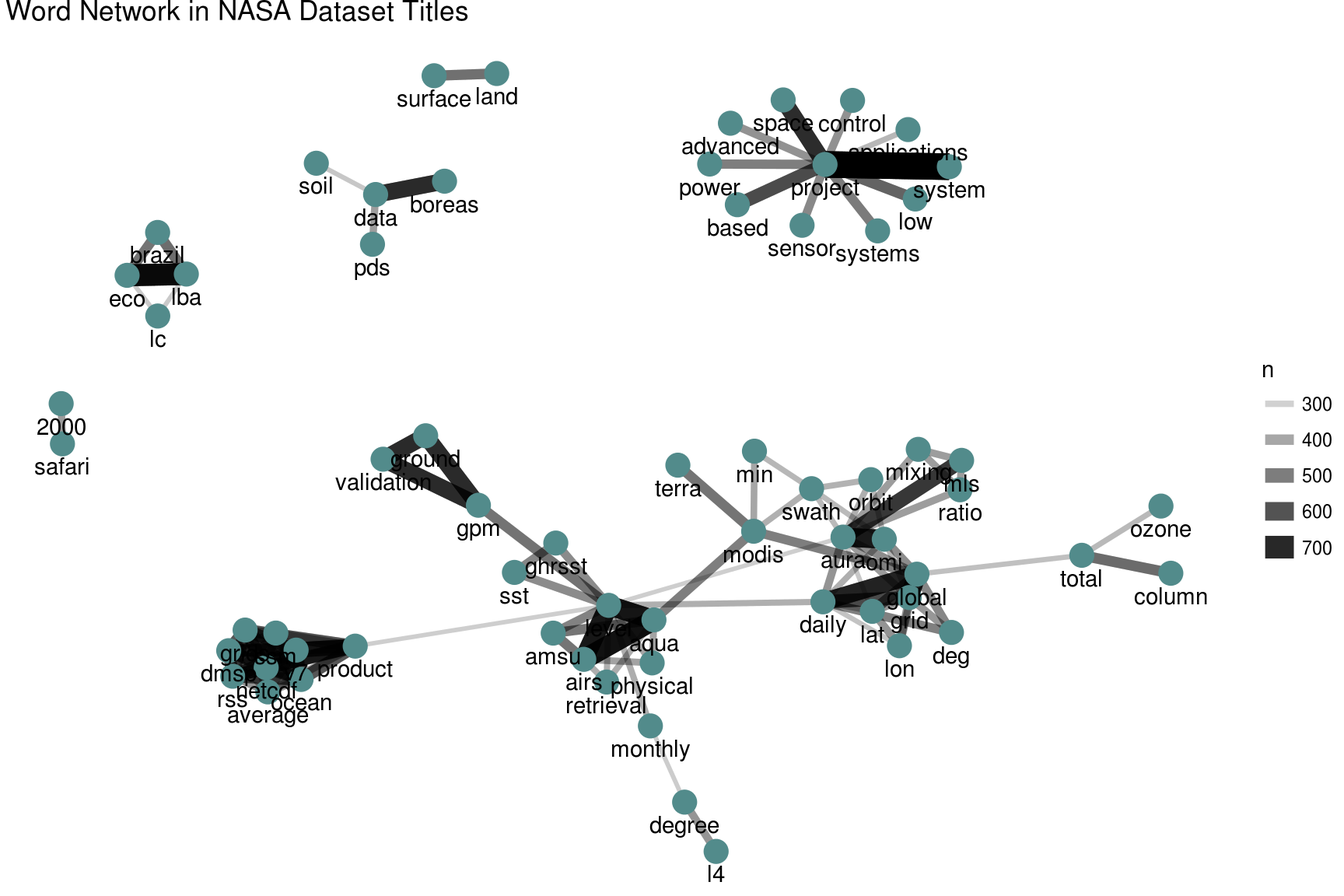
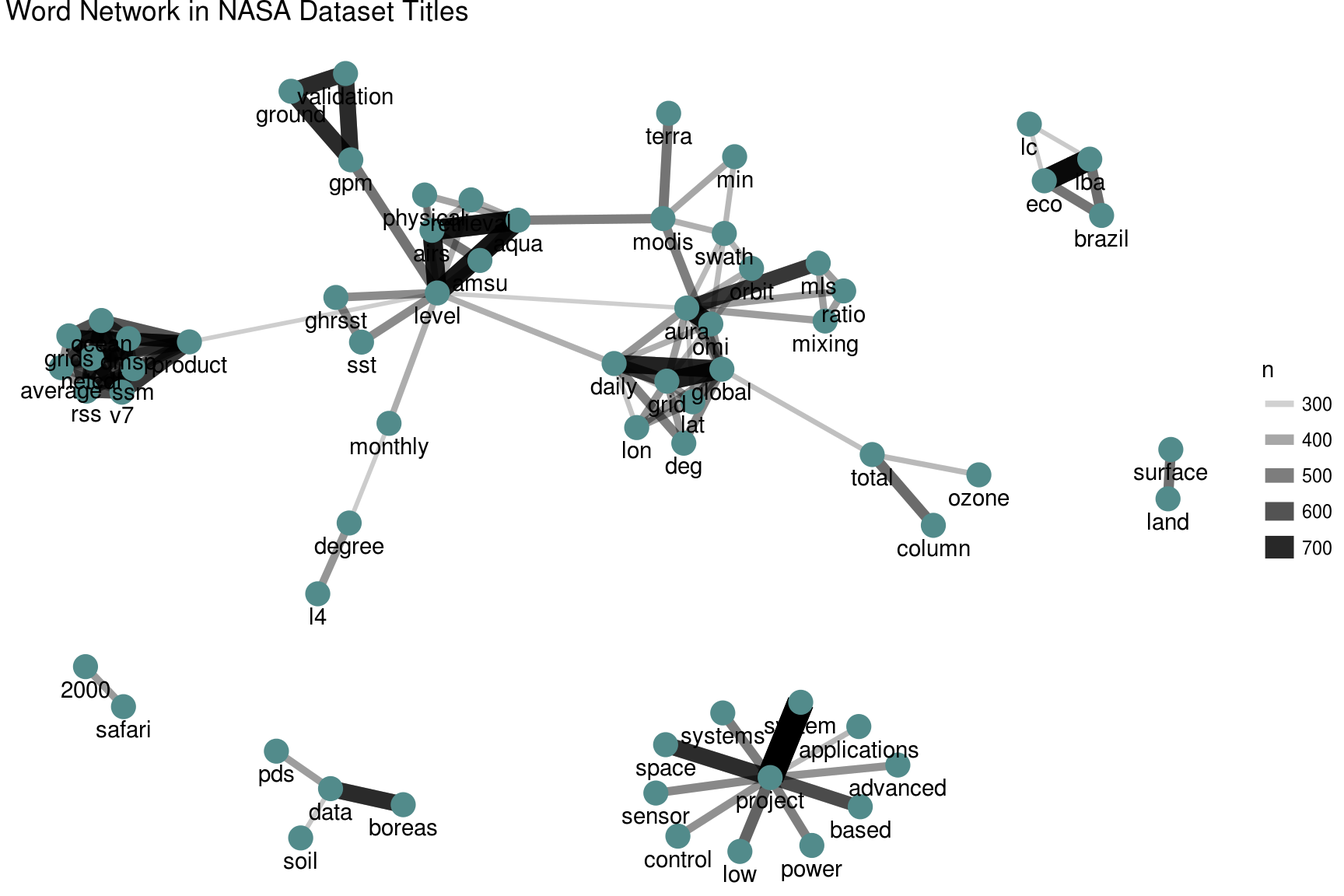
Updating book (163)

diff --git a/nasa.html b/nasa.html
@@ -26,7 +26,7 @@
 <meta name="author" content="Julia Silge and David Robinson">
 
 
-<meta name="date" content="2016-12-03">
+<meta name="date" content="2016-12-07">
 
   <meta name="viewport" content="width=device-width, initial-scale=1">
   <meta name="apple-mobile-web-app-capable" content="yes">
@@ -178,7 +178,8 @@ code > span.in { color: #60a0b0; font-weight: bold; font-style: italic; } /* Inf
 <li class="chapter" data-level="9.1" data-path="nasa.html"><a href="nasa.html#getting-the-metadata"><i class="fa fa-check"></i><b>9.1</b> Getting the metadata</a></li>
 <li class="chapter" data-level="9.2" data-path="nasa.html"><a href="nasa.html#wrangling-and-tidying-the-data"><i class="fa fa-check"></i><b>9.2</b> Wrangling and tidying the data</a></li>
 <li class="chapter" data-level="9.3" data-path="nasa.html"><a href="nasa.html#some-initial-simple-exploration"><i class="fa fa-check"></i><b>9.3</b> Some initial simple exploration</a></li>
-<li class="chapter" data-level="9.4" data-path="nasa.html"><a href="nasa.html#word-co-ocurrences"><i class="fa fa-check"></i><b>9.4</b> Word co-ocurrences</a></li>
+<li class="chapter" data-level="9.4" data-path="nasa.html"><a href="nasa.html#word-co-ocurrences-and-correlations"><i class="fa fa-check"></i><b>9.4</b> Word co-ocurrences and correlations</a></li>
+<li class="chapter" data-level="9.5" data-path="nasa.html"><a href="nasa.html#calculating-tf-idf-for-the-description-fields"><i class="fa fa-check"></i><b>9.5</b> Calculating tf-idf for the description fields</a></li>
 </ul></li>
 <li class="chapter" data-level="10" data-path="usenet.html"><a href="usenet.html"><i class="fa fa-check"></i><b>10</b> Case study: analyzing usenet text</a><ul>
 <li class="chapter" data-level="10.1" data-path="usenet.html"><a href="usenet.html#wrangling-the-data"><i class="fa fa-check"></i><b>10.1</b> Wrangling the data</a></li>
@@ -393,8 +394,8 @@ nasa_desc &lt;-<span class="st"> </span>nasa_desc %&gt;%<span class="st"> </span
 <div class="sourceCode"><pre class="sourceCode r"><code class="sourceCode r">nasa_keyword &lt;-<span class="st"> </span>nasa_keyword %&gt;%<span class="st"> </span>
 <span class="st">  </span><span class="kw">mutate</span>(<span class="dt">keyword =</span> <span class="kw">toupper</span>(keyword))</code></pre></div>
 </div>
-<div id="word-co-ocurrences" class="section level2">
-<h2><span class="header-section-number">9.4</span> Word co-ocurrences</h2>
+<div id="word-co-ocurrences-and-correlations" class="section level2">
+<h2><span class="header-section-number">9.4</span> Word co-ocurrences and correlations</h2>
 <p>Let’s examine which words commonly occur together in the titles and descriptions of NASA datasets. We can then examine a word network in titles/descriptions; this may help us decide, for example, how many topics to look at in topic modeling.</p>
 <div class="sourceCode"><pre class="sourceCode r"><code class="sourceCode r"><span class="kw">library</span>(widyr)
 
@@ -439,7 +440,7 @@ desc_words</code></pre></div>
 <span class="kw">library</span>(igraph)
 <span class="kw">library</span>(ggraph)
 
-<span class="kw">set.seed</span>(<span class="dv">1234</span>)
+<span class="kw">set.seed</span>(<span class="dv">2016</span>)
 title_words %&gt;%
 <span class="st">  </span><span class="kw">filter</span>(n &gt;=<span class="st"> </span><span class="dv">250</span>) %&gt;%
 <span class="st">  </span><span class="kw">graph_from_data_frame</span>() %&gt;%
@@ -463,7 +464,7 @@ desc_words %&gt;%
 <span class="st">  </span><span class="kw">ggtitle</span>(<span class="st">&quot;Word Network in NASA Dataset Descriptions&quot;</span>) +
 <span class="st">  </span><span class="kw">theme_void</span>()</code></pre></div>
 <p><img src="09-nasa-metadata_files/figure-html/plot_desc-1.png" width="864" /></p>
-<p>Here there are such <em>strong</em> connections between the top dozen or so words (words like “data”, “resolution”, and “instrument”) that we may do better if we exclude these very highly connected words. Also, this may mean that tf-idf (as described in detail in <a href="tfidf.html#tfidf">Chapter 4</a>) will be a good option to explore. But for now, let’s add a few more stop words and look at one more word network for the description fields. Notice how we use <code>bind_rows</code> to add more custom stop words to the words we are already using; this approach can be used in many instances.</p>
+<p>Here there are such <em>strong</em> connections between the top dozen or so words (words like “data”, “resolution”, and “instrument”) that we may do better if we exclude these very highly connected words or use tf-idf (as described in detail in <a href="tfidf.html#tfidf">Chapter 4</a>) as a metric. But for now, let’s add a few more stop words and look at one more word network for the description fields. Notice how we use <code>bind_rows</code> to add more custom stop words to the words we are already using; this approach can be used in many instances.</p>
 <div class="sourceCode"><pre class="sourceCode r"><code class="sourceCode r">mystopwords &lt;-<span class="st"> </span><span class="kw">bind_rows</span>(mystopwords,
                          <span class="kw">data_frame</span>(<span class="dt">word =</span> <span class="kw">c</span>(<span class="st">&quot;data&quot;</span>, <span class="st">&quot;global&quot;</span>, 
                                              <span class="st">&quot;instrument&quot;</span>, <span class="st">&quot;resolution&quot;</span>,
@@ -489,7 +490,22 @@ desc_words %&gt;%
 <div class="sourceCode"><pre class="sourceCode r"><code class="sourceCode r">keyword_counts &lt;-<span class="st"> </span>nasa_keyword %&gt;%<span class="st"> </span>
 <span class="st">  </span><span class="kw">pairwise_count</span>(keyword, id, <span class="dt">sort =</span> <span class="ot">TRUE</span>)
 
-<span class="kw">set.seed</span>(<span class="dv">1234</span>)
+keyword_counts</code></pre></div>
+<pre><code>## # A tibble: 26,780 × 3
+##            item1         item2     n
+##            &lt;chr&gt;         &lt;chr&gt; &lt;dbl&gt;
+## 1   OCEAN OPTICS        OCEANS  7324
+## 2         OCEANS  OCEAN OPTICS  7324
+## 3     ATMOSPHERE EARTH SCIENCE  7318
+## 4  EARTH SCIENCE    ATMOSPHERE  7318
+## 5    OCEAN COLOR        OCEANS  7270
+## 6    OCEAN COLOR  OCEAN OPTICS  7270
+## 7         OCEANS   OCEAN COLOR  7270
+## 8   OCEAN OPTICS   OCEAN COLOR  7270
+## 9      COMPLETED       PROJECT  6450
+## 10       PROJECT     COMPLETED  6450
+## # ... with 26,770 more rows</code></pre>
+<div class="sourceCode"><pre class="sourceCode r"><code class="sourceCode r"><span class="kw">set.seed</span>(<span class="dv">2016</span>)
 keyword_counts %&gt;%
 <span class="st">  </span><span class="kw">filter</span>(n &gt;=<span class="st"> </span><span class="dv">700</span>) %&gt;%
 <span class="st">  </span><span class="kw">graph_from_data_frame</span>() %&gt;%
@@ -501,7 +517,66 @@ keyword_counts %&gt;%
 <span class="st">  </span><span class="kw">theme_void</span>()</code></pre></div>
 <p><img src="09-nasa-metadata_files/figure-html/plot_counts-1.png" width="864" /></p>
 <p>These are the most commonly co-occurring words, but also just the most common keywords in general. To more meaningfully examine which keywords are likely to appear together instead of separately, we need to find the correlation among the keywords as described in <a href="ngrams.html#ngrams">Chapter 5</a>.</p>
-<p>TODO: correlation of keywords, tf-idf, topic modeling</p>
+<div class="sourceCode"><pre class="sourceCode r"><code class="sourceCode r">keyword_cors &lt;-<span class="st"> </span>nasa_keyword %&gt;%<span class="st"> </span>
+<span class="st">  </span><span class="kw">group_by</span>(keyword) %&gt;%
+<span class="st">  </span><span class="kw">filter</span>(<span class="kw">n</span>() &gt;=<span class="st"> </span><span class="dv">20</span>) %&gt;%
+<span class="st">  </span><span class="kw">pairwise_cor</span>(keyword, id, <span class="dt">sort =</span> <span class="ot">TRUE</span>)
+
+keyword_cors</code></pre></div>
+<pre><code>## # A tibble: 51,756 × 3
+##        item1     item2 correlation
+##        &lt;chr&gt;     &lt;chr&gt;       &lt;dbl&gt;
+## 1        LAT       GBM           1
+## 2        GBM       LAT           1
+## 3     NAVCAM    HAZCAM           1
+## 4     HAZCAM    NAVCAM           1
+## 5      MARCI       CTX           1
+## 6        CTX     MARCI           1
+## 7       MTES        MB           1
+## 8         MB      MTES           1
+## 9    SHARING KNOWLEDGE           1
+## 10 KNOWLEDGE   SHARING           1
+## # ... with 51,746 more rows</code></pre>
+<p>Notice that these keywords at the top of this sorted data frame have correlation coefficients equal to 1; they always occur together. This means these are redundant keywords and it may not make sense to continue to use both of these sets of pairs. Let’s visualize the network of keyword correlations, just as we did for keyword co-occurences.</p>
+<div class="sourceCode"><pre class="sourceCode r"><code class="sourceCode r"><span class="kw">set.seed</span>(<span class="dv">2016</span>)
+keyword_cors %&gt;%
+<span class="st">  </span><span class="kw">filter</span>(correlation &gt;<span class="st"> </span>.<span class="dv">6</span>) %&gt;%
+<span class="st">  </span><span class="kw">graph_from_data_frame</span>() %&gt;%
+<span class="st">  </span><span class="kw">ggraph</span>(<span class="dt">layout =</span> <span class="st">&quot;fr&quot;</span>) +
+<span class="st">  </span><span class="kw">geom_edge_link</span>(<span class="kw">aes</span>(<span class="dt">edge_alpha =</span> correlation, <span class="dt">edge_width =</span> correlation)) +
+<span class="st">  </span><span class="kw">geom_node_point</span>(<span class="dt">color =</span> <span class="st">&quot;royalblue3&quot;</span>, <span class="dt">size =</span> <span class="dv">5</span>) +
+<span class="st">  </span><span class="kw">geom_node_text</span>(<span class="kw">aes</span>(<span class="dt">label =</span> name), <span class="dt">vjust =</span> <span class="fl">1.8</span>) +
+<span class="st">  </span><span class="kw">ggtitle</span>(<span class="st">&quot;Correlation Network in NASA Dataset Keywords&quot;</span>) +
+<span class="st">  </span><span class="kw">theme_void</span>()</code></pre></div>
+<p><img src="09-nasa-metadata_files/figure-html/plot_cors-1.png" width="864" /></p>
+<p>This network looks much different than the co-occurence network. The difference is that the co-occurrence network asks a question about which keyword pairs occur most often, and the correlation network asks a question about which keyword pairs occur more often together than with other keywords. Notice here the high number of small clusters of keywords; the network structure can be extracted from the <code>graph_from_data_frame()</code> function above.</p>
+</div>
+<div id="calculating-tf-idf-for-the-description-fields" class="section level2">
+<h2><span class="header-section-number">9.5</span> Calculating tf-idf for the description fields</h2>
+<p>As discussed in <a href="#tf-idf">Chapter 4</a>, we can use tf-idf, the term frequency times inverse document frequency, to identify words that are especially important to a document within a collection of documents. Let’s apply that approach to the description fields of these NASA datasets. We will consider each description field a document, and the whole set of description fields the collection or corpus of documents. We have already used <code>unnest_tokens</code> above to make a tidy data frame of the words in the description fields, so now we can use <code>bind_tf_idf</code> to calculate tf-idf for each word.</p>
+<div class="sourceCode"><pre class="sourceCode r"><code class="sourceCode r">desc_tf_idf &lt;-<span class="st"> </span>nasa_desc %&gt;%<span class="st"> </span>
+<span class="st">  </span><span class="kw">count</span>(id, word, <span class="dt">sort =</span> <span class="ot">TRUE</span>) %&gt;%
+<span class="st">  </span><span class="kw">ungroup</span>() %&gt;%
+<span class="st">  </span><span class="kw">bind_tf_idf</span>(word, id, n)</code></pre></div>
+<p>What are the highest tf-idf words in the NASA description fields?</p>
+<div class="sourceCode"><pre class="sourceCode r"><code class="sourceCode r">desc_tf_idf %&gt;%<span class="st"> </span>
+<span class="st">  </span><span class="kw">arrange</span>(-tf_idf)</code></pre></div>
+<pre><code>## # A tibble: 1,847,770 × 6
+##                          id                                          word     n    tf       idf
+##                       &lt;chr&gt;                                         &lt;chr&gt; &lt;int&gt; &lt;dbl&gt;     &lt;dbl&gt;
+## 1  55942a7cc63a7fe59b49774a                                           rdr     1     1 10.375052
+## 2  55942ac9c63a7fe59b49b688 palsar_radiometric_terrain_corrected_high_res     1     1 10.375052
+## 3  55942ac9c63a7fe59b49b689  palsar_radiometric_terrain_corrected_low_res     1     1 10.375052
+## 4  55942a7bc63a7fe59b4976ca                                          lgrs     1     1  8.765615
+## 5  55942a7bc63a7fe59b4976d2                                          lgrs     1     1  8.765615
+## 6  55942a7bc63a7fe59b4976e3                                          lgrs     1     1  8.765615
+## 7  55942a7dc63a7fe59b497820                                           mri     1     1  8.583293
+## 8  55942ad8c63a7fe59b49cf6c                      template_proddescription     1     1  8.295611
+## 9  55942ad8c63a7fe59b49cf6d                      template_proddescription     1     1  8.295611
+## 10 55942ad8c63a7fe59b49cf6e                      template_proddescription     1     1  8.295611
+## # ... with 1,847,760 more rows, and 1 more variables: tf_idf &lt;dbl&gt;</code></pre>
+<p>These are the most important words in the description fields as measured by tf-idf, meaning they are common but not too common. Notice we have run into an issue here; both <span class="math inline">\(n\)</span> and term frequency are equal to 1 for these terms, meaning that these were description fields that only had a single word in them. If a description field only contains one word, the tf-idf algorithm will think that is a really important word. Depending on our analytic goals, it might be a good idea to throw out all description fields that have fewer than 5 words or similar.</p>
+<p>TODO: tf-idf, topic modeling</p>
 
 </div>
 </div>

diff --git a/index.html b/index.html
@@ -26,7 +26,7 @@
 <meta name="author" content="Julia Silge and David Robinson">
 
 
-<meta name="date" content="2016-12-03">
+<meta name="date" content="2016-12-07">
 
   <meta name="viewport" content="width=device-width, initial-scale=1">
   <meta name="apple-mobile-web-app-capable" content="yes">
@@ -178,7 +178,8 @@ code > span.in { color: #60a0b0; font-weight: bold; font-style: italic; } /* Inf
 <li class="chapter" data-level="9.1" data-path="nasa.html"><a href="nasa.html#getting-the-metadata"><i class="fa fa-check"></i><b>9.1</b> Getting the metadata</a></li>
 <li class="chapter" data-level="9.2" data-path="nasa.html"><a href="nasa.html#wrangling-and-tidying-the-data"><i class="fa fa-check"></i><b>9.2</b> Wrangling and tidying the data</a></li>
 <li class="chapter" data-level="9.3" data-path="nasa.html"><a href="nasa.html#some-initial-simple-exploration"><i class="fa fa-check"></i><b>9.3</b> Some initial simple exploration</a></li>
-<li class="chapter" data-level="9.4" data-path="nasa.html"><a href="nasa.html#word-co-ocurrences"><i class="fa fa-check"></i><b>9.4</b> Word co-ocurrences</a></li>
+<li class="chapter" data-level="9.4" data-path="nasa.html"><a href="nasa.html#word-co-ocurrences-and-correlations"><i class="fa fa-check"></i><b>9.4</b> Word co-ocurrences and correlations</a></li>
+<li class="chapter" data-level="9.5" data-path="nasa.html"><a href="nasa.html#calculating-tf-idf-for-the-description-fields"><i class="fa fa-check"></i><b>9.5</b> Calculating tf-idf for the description fields</a></li>
 </ul></li>
 <li class="chapter" data-level="10" data-path="usenet.html"><a href="usenet.html"><i class="fa fa-check"></i><b>10</b> Case study: analyzing usenet text</a><ul>
 <li class="chapter" data-level="10.1" data-path="usenet.html"><a href="usenet.html#wrangling-the-data"><i class="fa fa-check"></i><b>10.1</b> Wrangling the data</a></li>
@@ -212,7 +213,7 @@ code > span.in { color: #60a0b0; font-weight: bold; font-style: italic; } /* Inf
 <div id="header">
 <h1 class="title">Tidy Text Mining with R</h1>
 <h4 class="author"><em>Julia Silge and David Robinson</em></h4>
-<h4 class="date"><em>2016-12-03</em></h4>
+<h4 class="date"><em>2016-12-07</em></h4>
 </div>
 <div id="welcome-to-tidy-text-mining-with-r" class="section level1 unnumbered">
 <h1>Welcome to Tidy Text Mining with R</h1>

diff --git a/dtm.html b/dtm.html
@@ -26,7 +26,7 @@
 <meta name="author" content="Julia Silge and David Robinson">
 
 
-<meta name="date" content="2016-12-03">
+<meta name="date" content="2016-12-07">
 
   <meta name="viewport" content="width=device-width, initial-scale=1">
   <meta name="apple-mobile-web-app-capable" content="yes">
@@ -178,7 +178,8 @@ code > span.in { color: #60a0b0; font-weight: bold; font-style: italic; } /* Inf
 <li class="chapter" data-level="9.1" data-path="nasa.html"><a href="nasa.html#getting-the-metadata"><i class="fa fa-check"></i><b>9.1</b> Getting the metadata</a></li>
 <li class="chapter" data-level="9.2" data-path="nasa.html"><a href="nasa.html#wrangling-and-tidying-the-data"><i class="fa fa-check"></i><b>9.2</b> Wrangling and tidying the data</a></li>
 <li class="chapter" data-level="9.3" data-path="nasa.html"><a href="nasa.html#some-initial-simple-exploration"><i class="fa fa-check"></i><b>9.3</b> Some initial simple exploration</a></li>
-<li class="chapter" data-level="9.4" data-path="nasa.html"><a href="nasa.html#word-co-ocurrences"><i class="fa fa-check"></i><b>9.4</b> Word co-ocurrences</a></li>
+<li class="chapter" data-level="9.4" data-path="nasa.html"><a href="nasa.html#word-co-ocurrences-and-correlations"><i class="fa fa-check"></i><b>9.4</b> Word co-ocurrences and correlations</a></li>
+<li class="chapter" data-level="9.5" data-path="nasa.html"><a href="nasa.html#calculating-tf-idf-for-the-description-fields"><i class="fa fa-check"></i><b>9.5</b> Calculating tf-idf for the description fields</a></li>
 </ul></li>
 <li class="chapter" data-level="10" data-path="usenet.html"><a href="usenet.html"><i class="fa fa-check"></i><b>10</b> Case study: analyzing usenet text</a><ul>
 <li class="chapter" data-level="10.1" data-path="usenet.html"><a href="usenet.html#wrangling-the-data"><i class="fa fa-check"></i><b>10.1</b> Wrangling the data</a></li>

diff --git a/intro.html b/intro.html
@@ -26,7 +26,7 @@
 <meta name="author" content="Julia Silge and David Robinson">
 
 
-<meta name="date" content="2016-12-03">
+<meta name="date" content="2016-12-07">
 
   <meta name="viewport" content="width=device-width, initial-scale=1">
   <meta name="apple-mobile-web-app-capable" content="yes">
@@ -178,7 +178,8 @@ code > span.in { color: #60a0b0; font-weight: bold; font-style: italic; } /* Inf
 <li class="chapter" data-level="9.1" data-path="nasa.html"><a href="nasa.html#getting-the-metadata"><i class="fa fa-check"></i><b>9.1</b> Getting the metadata</a></li>
 <li class="chapter" data-level="9.2" data-path="nasa.html"><a href="nasa.html#wrangling-and-tidying-the-data"><i class="fa fa-check"></i><b>9.2</b> Wrangling and tidying the data</a></li>
 <li class="chapter" data-level="9.3" data-path="nasa.html"><a href="nasa.html#some-initial-simple-exploration"><i class="fa fa-check"></i><b>9.3</b> Some initial simple exploration</a></li>
-<li class="chapter" data-level="9.4" data-path="nasa.html"><a href="nasa.html#word-co-ocurrences"><i class="fa fa-check"></i><b>9.4</b> Word co-ocurrences</a></li>
+<li class="chapter" data-level="9.4" data-path="nasa.html"><a href="nasa.html#word-co-ocurrences-and-correlations"><i class="fa fa-check"></i><b>9.4</b> Word co-ocurrences and correlations</a></li>
+<li class="chapter" data-level="9.5" data-path="nasa.html"><a href="nasa.html#calculating-tf-idf-for-the-description-fields"><i class="fa fa-check"></i><b>9.5</b> Calculating tf-idf for the description fields</a></li>
 </ul></li>
 <li class="chapter" data-level="10" data-path="usenet.html"><a href="usenet.html"><i class="fa fa-check"></i><b>10</b> Case study: analyzing usenet text</a><ul>
 <li class="chapter" data-level="10.1" data-path="usenet.html"><a href="usenet.html#wrangling-the-data"><i class="fa fa-check"></i><b>10.1</b> Wrangling the data</a></li>

diff --git a/ngrams.html b/ngrams.html
@@ -26,7 +26,7 @@
 <meta name="author" content="Julia Silge and David Robinson">
 
 
-<meta name="date" content="2016-12-03">
+<meta name="date" content="2016-12-07">
 
   <meta name="viewport" content="width=device-width, initial-scale=1">
   <meta name="apple-mobile-web-app-capable" content="yes">
@@ -178,7 +178,8 @@ code > span.in { color: #60a0b0; font-weight: bold; font-style: italic; } /* Inf
 <li class="chapter" data-level="9.1" data-path="nasa.html"><a href="nasa.html#getting-the-metadata"><i class="fa fa-check"></i><b>9.1</b> Getting the metadata</a></li>
 <li class="chapter" data-level="9.2" data-path="nasa.html"><a href="nasa.html#wrangling-and-tidying-the-data"><i class="fa fa-check"></i><b>9.2</b> Wrangling and tidying the data</a></li>
 <li class="chapter" data-level="9.3" data-path="nasa.html"><a href="nasa.html#some-initial-simple-exploration"><i class="fa fa-check"></i><b>9.3</b> Some initial simple exploration</a></li>
-<li class="chapter" data-level="9.4" data-path="nasa.html"><a href="nasa.html#word-co-ocurrences"><i class="fa fa-check"></i><b>9.4</b> Word co-ocurrences</a></li>
+<li class="chapter" data-level="9.4" data-path="nasa.html"><a href="nasa.html#word-co-ocurrences-and-correlations"><i class="fa fa-check"></i><b>9.4</b> Word co-ocurrences and correlations</a></li>
+<li class="chapter" data-level="9.5" data-path="nasa.html"><a href="nasa.html#calculating-tf-idf-for-the-description-fields"><i class="fa fa-check"></i><b>9.5</b> Calculating tf-idf for the description fields</a></li>
 </ul></li>
 <li class="chapter" data-level="10" data-path="usenet.html"><a href="usenet.html"><i class="fa fa-check"></i><b>10</b> Case study: analyzing usenet text</a><ul>
 <li class="chapter" data-level="10.1" data-path="usenet.html"><a href="usenet.html#wrangling-the-data"><i class="fa fa-check"></i><b>10.1</b> Wrangling the data</a></li>

diff --git a/references.html b/references.html
@@ -26,7 +26,7 @@
 <meta name="author" content="Julia Silge and David Robinson">
 
 
-<meta name="date" content="2016-12-03">
+<meta name="date" content="2016-12-07">
 
   <meta name="viewport" content="width=device-width, initial-scale=1">
   <meta name="apple-mobile-web-app-capable" content="yes">
@@ -178,7 +178,8 @@ code > span.in { color: #60a0b0; font-weight: bold; font-style: italic; } /* Inf
 <li class="chapter" data-level="9.1" data-path="nasa.html"><a href="nasa.html#getting-the-metadata"><i class="fa fa-check"></i><b>9.1</b> Getting the metadata</a></li>
 <li class="chapter" data-level="9.2" data-path="nasa.html"><a href="nasa.html#wrangling-and-tidying-the-data"><i class="fa fa-check"></i><b>9.2</b> Wrangling and tidying the data</a></li>
 <li class="chapter" data-level="9.3" data-path="nasa.html"><a href="nasa.html#some-initial-simple-exploration"><i class="fa fa-check"></i><b>9.3</b> Some initial simple exploration</a></li>
-<li class="chapter" data-level="9.4" data-path="nasa.html"><a href="nasa.html#word-co-ocurrences"><i class="fa fa-check"></i><b>9.4</b> Word co-ocurrences</a></li>
+<li class="chapter" data-level="9.4" data-path="nasa.html"><a href="nasa.html#word-co-ocurrences-and-correlations"><i class="fa fa-check"></i><b>9.4</b> Word co-ocurrences and correlations</a></li>
+<li class="chapter" data-level="9.5" data-path="nasa.html"><a href="nasa.html#calculating-tf-idf-for-the-description-fields"><i class="fa fa-check"></i><b>9.5</b> Calculating tf-idf for the description fields</a></li>
 </ul></li>
 <li class="chapter" data-level="10" data-path="usenet.html"><a href="usenet.html"><i class="fa fa-check"></i><b>10</b> Case study: analyzing usenet text</a><ul>
 <li class="chapter" data-level="10.1" data-path="usenet.html"><a href="usenet.html#wrangling-the-data"><i class="fa fa-check"></i><b>10.1</b> Wrangling the data</a></li>

diff --git a/sentiment.html b/sentiment.html
@@ -26,7 +26,7 @@
 <meta name="author" content="Julia Silge and David Robinson">
 
 
-<meta name="date" content="2016-12-03">
+<meta name="date" content="2016-12-07">
 
   <meta name="viewport" content="width=device-width, initial-scale=1">
   <meta name="apple-mobile-web-app-capable" content="yes">
@@ -178,7 +178,8 @@ code > span.in { color: #60a0b0; font-weight: bold; font-style: italic; } /* Inf
 <li class="chapter" data-level="9.1" data-path="nasa.html"><a href="nasa.html#getting-the-metadata"><i class="fa fa-check"></i><b>9.1</b> Getting the metadata</a></li>
 <li class="chapter" data-level="9.2" data-path="nasa.html"><a href="nasa.html#wrangling-and-tidying-the-data"><i class="fa fa-check"></i><b>9.2</b> Wrangling and tidying the data</a></li>
 <li class="chapter" data-level="9.3" data-path="nasa.html"><a href="nasa.html#some-initial-simple-exploration"><i class="fa fa-check"></i><b>9.3</b> Some initial simple exploration</a></li>
-<li class="chapter" data-level="9.4" data-path="nasa.html"><a href="nasa.html#word-co-ocurrences"><i class="fa fa-check"></i><b>9.4</b> Word co-ocurrences</a></li>
+<li class="chapter" data-level="9.4" data-path="nasa.html"><a href="nasa.html#word-co-ocurrences-and-correlations"><i class="fa fa-check"></i><b>9.4</b> Word co-ocurrences and correlations</a></li>
+<li class="chapter" data-level="9.5" data-path="nasa.html"><a href="nasa.html#calculating-tf-idf-for-the-description-fields"><i class="fa fa-check"></i><b>9.5</b> Calculating tf-idf for the description fields</a></li>
 </ul></li>
 <li class="chapter" data-level="10" data-path="usenet.html"><a href="usenet.html"><i class="fa fa-check"></i><b>10</b> Case study: analyzing usenet text</a><ul>
 <li class="chapter" data-level="10.1" data-path="usenet.html"><a href="usenet.html#wrangling-the-data"><i class="fa fa-check"></i><b>10.1</b> Wrangling the data</a></li>

diff --git a/tfidf.html b/tfidf.html
@@ -26,7 +26,7 @@
 <meta name="author" content="Julia Silge and David Robinson">
 
 
-<meta name="date" content="2016-12-03">
+<meta name="date" content="2016-12-07">
 
   <meta name="viewport" content="width=device-width, initial-scale=1">
   <meta name="apple-mobile-web-app-capable" content="yes">
@@ -178,7 +178,8 @@ code > span.in { color: #60a0b0; font-weight: bold; font-style: italic; } /* Inf
 <li class="chapter" data-level="9.1" data-path="nasa.html"><a href="nasa.html#getting-the-metadata"><i class="fa fa-check"></i><b>9.1</b> Getting the metadata</a></li>
 <li class="chapter" data-level="9.2" data-path="nasa.html"><a href="nasa.html#wrangling-and-tidying-the-data"><i class="fa fa-check"></i><b>9.2</b> Wrangling and tidying the data</a></li>
 <li class="chapter" data-level="9.3" data-path="nasa.html"><a href="nasa.html#some-initial-simple-exploration"><i class="fa fa-check"></i><b>9.3</b> Some initial simple exploration</a></li>
-<li class="chapter" data-level="9.4" data-path="nasa.html"><a href="nasa.html#word-co-ocurrences"><i class="fa fa-check"></i><b>9.4</b> Word co-ocurrences</a></li>
+<li class="chapter" data-level="9.4" data-path="nasa.html"><a href="nasa.html#word-co-ocurrences-and-correlations"><i class="fa fa-check"></i><b>9.4</b> Word co-ocurrences and correlations</a></li>
+<li class="chapter" data-level="9.5" data-path="nasa.html"><a href="nasa.html#calculating-tf-idf-for-the-description-fields"><i class="fa fa-check"></i><b>9.5</b> Calculating tf-idf for the description fields</a></li>
 </ul></li>
 <li class="chapter" data-level="10" data-path="usenet.html"><a href="usenet.html"><i class="fa fa-check"></i><b>10</b> Case study: analyzing usenet text</a><ul>
 <li class="chapter" data-level="10.1" data-path="usenet.html"><a href="usenet.html#wrangling-the-data"><i class="fa fa-check"></i><b>10.1</b> Wrangling the data</a></li>

diff --git a/tidytext.html b/tidytext.html
@@ -26,7 +26,7 @@
 <meta name="author" content="Julia Silge and David Robinson">
 
 
-<meta name="date" content="2016-12-03">
+<meta name="date" content="2016-12-07">
 
   <meta name="viewport" content="width=device-width, initial-scale=1">
   <meta name="apple-mobile-web-app-capable" content="yes">
@@ -178,7 +178,8 @@ code > span.in { color: #60a0b0; font-weight: bold; font-style: italic; } /* Inf
 <li class="chapter" data-level="9.1" data-path="nasa.html"><a href="nasa.html#getting-the-metadata"><i class="fa fa-check"></i><b>9.1</b> Getting the metadata</a></li>
 <li class="chapter" data-level="9.2" data-path="nasa.html"><a href="nasa.html#wrangling-and-tidying-the-data"><i class="fa fa-check"></i><b>9.2</b> Wrangling and tidying the data</a></li>
 <li class="chapter" data-level="9.3" data-path="nasa.html"><a href="nasa.html#some-initial-simple-exploration"><i class="fa fa-check"></i><b>9.3</b> Some initial simple exploration</a></li>
-<li class="chapter" data-level="9.4" data-path="nasa.html"><a href="nasa.html#word-co-ocurrences"><i class="fa fa-check"></i><b>9.4</b> Word co-ocurrences</a></li>
+<li class="chapter" data-level="9.4" data-path="nasa.html"><a href="nasa.html#word-co-ocurrences-and-correlations"><i class="fa fa-check"></i><b>9.4</b> Word co-ocurrences and correlations</a></li>
+<li class="chapter" data-level="9.5" data-path="nasa.html"><a href="nasa.html#calculating-tf-idf-for-the-description-fields"><i class="fa fa-check"></i><b>9.5</b> Calculating tf-idf for the description fields</a></li>
 </ul></li>
 <li class="chapter" data-level="10" data-path="usenet.html"><a href="usenet.html"><i class="fa fa-check"></i><b>10</b> Case study: analyzing usenet text</a><ul>
 <li class="chapter" data-level="10.1" data-path="usenet.html"><a href="usenet.html#wrangling-the-data"><i class="fa fa-check"></i><b>10.1</b> Wrangling the data</a></li>

diff --git a/topicmodeling.html b/topicmodeling.html
@@ -26,7 +26,7 @@
 <meta name="author" content="Julia Silge and David Robinson">
 
 
-<meta name="date" content="2016-12-03">
+<meta name="date" content="2016-12-07">
 
   <meta name="viewport" content="width=device-width, initial-scale=1">
   <meta name="apple-mobile-web-app-capable" content="yes">
@@ -178,7 +178,8 @@ code > span.in { color: #60a0b0; font-weight: bold; font-style: italic; } /* Inf
 <li class="chapter" data-level="9.1" data-path="nasa.html"><a href="nasa.html#getting-the-metadata"><i class="fa fa-check"></i><b>9.1</b> Getting the metadata</a></li>
 <li class="chapter" data-level="9.2" data-path="nasa.html"><a href="nasa.html#wrangling-and-tidying-the-data"><i class="fa fa-check"></i><b>9.2</b> Wrangling and tidying the data</a></li>
 <li class="chapter" data-level="9.3" data-path="nasa.html"><a href="nasa.html#some-initial-simple-exploration"><i class="fa fa-check"></i><b>9.3</b> Some initial simple exploration</a></li>
-<li class="chapter" data-level="9.4" data-path="nasa.html"><a href="nasa.html#word-co-ocurrences"><i class="fa fa-check"></i><b>9.4</b> Word co-ocurrences</a></li>
+<li class="chapter" data-level="9.4" data-path="nasa.html"><a href="nasa.html#word-co-ocurrences-and-correlations"><i class="fa fa-check"></i><b>9.4</b> Word co-ocurrences and correlations</a></li>
+<li class="chapter" data-level="9.5" data-path="nasa.html"><a href="nasa.html#calculating-tf-idf-for-the-description-fields"><i class="fa fa-check"></i><b>9.5</b> Calculating tf-idf for the description fields</a></li>
 </ul></li>
 <li class="chapter" data-level="10" data-path="usenet.html"><a href="usenet.html"><i class="fa fa-check"></i><b>10</b> Case study: analyzing usenet text</a><ul>
 <li class="chapter" data-level="10.1" data-path="usenet.html"><a href="usenet.html#wrangling-the-data"><i class="fa fa-check"></i><b>10.1</b> Wrangling the data</a></li>

diff --git a/twitter.html b/twitter.html
@@ -26,7 +26,7 @@
 <meta name="author" content="Julia Silge and David Robinson">
 
 
-<meta name="date" content="2016-12-03">
+<meta name="date" content="2016-12-07">
 
   <meta name="viewport" content="width=device-width, initial-scale=1">
   <meta name="apple-mobile-web-app-capable" content="yes">
@@ -178,7 +178,8 @@ code > span.in { color: #60a0b0; font-weight: bold; font-style: italic; } /* Inf
 <li class="chapter" data-level="9.1" data-path="nasa.html"><a href="nasa.html#getting-the-metadata"><i class="fa fa-check"></i><b>9.1</b> Getting the metadata</a></li>
 <li class="chapter" data-level="9.2" data-path="nasa.html"><a href="nasa.html#wrangling-and-tidying-the-data"><i class="fa fa-check"></i><b>9.2</b> Wrangling and tidying the data</a></li>
 <li class="chapter" data-level="9.3" data-path="nasa.html"><a href="nasa.html#some-initial-simple-exploration"><i class="fa fa-check"></i><b>9.3</b> Some initial simple exploration</a></li>
-<li class="chapter" data-level="9.4" data-path="nasa.html"><a href="nasa.html#word-co-ocurrences"><i class="fa fa-check"></i><b>9.4</b> Word co-ocurrences</a></li>
+<li class="chapter" data-level="9.4" data-path="nasa.html"><a href="nasa.html#word-co-ocurrences-and-correlations"><i class="fa fa-check"></i><b>9.4</b> Word co-ocurrences and correlations</a></li>
+<li class="chapter" data-level="9.5" data-path="nasa.html"><a href="nasa.html#calculating-tf-idf-for-the-description-fields"><i class="fa fa-check"></i><b>9.5</b> Calculating tf-idf for the description fields</a></li>
 </ul></li>
 <li class="chapter" data-level="10" data-path="usenet.html"><a href="usenet.html"><i class="fa fa-check"></i><b>10</b> Case study: analyzing usenet text</a><ul>
 <li class="chapter" data-level="10.1" data-path="usenet.html"><a href="usenet.html#wrangling-the-data"><i class="fa fa-check"></i><b>10.1</b> Wrangling the data</a></li>

diff --git a/usenet.html b/usenet.html
@@ -26,7 +26,7 @@
 <meta name="author" content="Julia Silge and David Robinson">
 
 
-<meta name="date" content="2016-12-03">
+<meta name="date" content="2016-12-07">
 
   <meta name="viewport" content="width=device-width, initial-scale=1">
   <meta name="apple-mobile-web-app-capable" content="yes">
@@ -178,7 +178,8 @@ code > span.in { color: #60a0b0; font-weight: bold; font-style: italic; } /* Inf
 <li class="chapter" data-level="9.1" data-path="nasa.html"><a href="nasa.html#getting-the-metadata"><i class="fa fa-check"></i><b>9.1</b> Getting the metadata</a></li>
 <li class="chapter" data-level="9.2" data-path="nasa.html"><a href="nasa.html#wrangling-and-tidying-the-data"><i class="fa fa-check"></i><b>9.2</b> Wrangling and tidying the data</a></li>
 <li class="chapter" data-level="9.3" data-path="nasa.html"><a href="nasa.html#some-initial-simple-exploration"><i class="fa fa-check"></i><b>9.3</b> Some initial simple exploration</a></li>
-<li class="chapter" data-level="9.4" data-path="nasa.html"><a href="nasa.html#word-co-ocurrences"><i class="fa fa-check"></i><b>9.4</b> Word co-ocurrences</a></li>
+<li class="chapter" data-level="9.4" data-path="nasa.html"><a href="nasa.html#word-co-ocurrences-and-correlations"><i class="fa fa-check"></i><b>9.4</b> Word co-ocurrences and correlations</a></li>
+<li class="chapter" data-level="9.5" data-path="nasa.html"><a href="nasa.html#calculating-tf-idf-for-the-description-fields"><i class="fa fa-check"></i><b>9.5</b> Calculating tf-idf for the description fields</a></li>
 </ul></li>
 <li class="chapter" data-level="10" data-path="usenet.html"><a href="usenet.html"><i class="fa fa-check"></i><b>10</b> Case study: analyzing usenet text</a><ul>
 <li class="chapter" data-level="10.1" data-path="usenet.html"><a href="usenet.html#wrangling-the-data"><i class="fa fa-check"></i><b>10.1</b> Wrangling the data</a></li>
